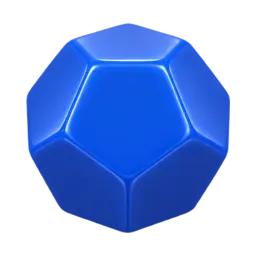
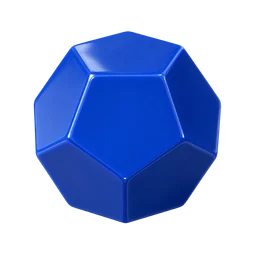
feat: generate modern pawn and dice sprites

diff --git a/.superpowers/sdd/2026-09-27-game-art-and-gameplay-refresh-plan/task-2d-modern-pawns-dice-report.md b/.superpowers/sdd/2026-09-27-game-art-and-gameplay-refresh-plan/task-2d-modern-pawns-dice-report.md
@@ -1,0 +1,87 @@
+# Task 2D: Modern Pawns and Dice
+
+Date: 2026-09-27
+Branch: `master`
+Runtime: Node 22.23.3
+
+## Result
+
+Generated, inspected, normalized and committed ten Modern assets: Pop & Race `pawn-1` through `pawn-4`, and dice `d4`, `d6`, `d8`, `d10`, `d12`, `d20`. All ten source files are copied byte-for-byte from accepted built-in outputs. No behavior code or asset validator changes were made.
+
+## Generation provenance and exact prompts
+
+Each accepted asset came from a separate built-in image-generation call using the verbatim frozen prompt below. Timestamps in the manifest are UTC conversions of the generated PNG file times; `reviewedAt` records the actual source inspection time. The stored source PNGs are under `docs/design/source-art/modern/`.
+
+1. `trouble/pawn-1` — output `/mnt/c/Users/miguel/.codex/generated_images/01a0e4aa-81a5-79e0-baa6-1dfe293240d9/exec-ccdaabb5-d941-423c-b3f2-9144bec89cb3.png`; accepted retry 1. Initial candidate `.../exec-8edbc687-74e8-40b6-8638-9838e3b38df5.png` was rejected because the image was not surfaced for native inspection; no review is claimed for it. Retry suffix: none; the retry repeated the exact manifest prompt.
+
+   > Use case: product-mockup. Asset type: individual production game sprite. Theme: Modern molded plastic, polished resin, clear glass; clean tabletop product photography with controlled studio highlights. Role: pawn-1; owner: seat2; color: #1A56DB. Primary request: One classic rounded tabletop pawn: spherical head, tapering body, broad circular foot; upright and fully visible. Molded plastic with consistent proportions and camera elevation across all four seats. Camera: front three-quarter; fixed upper-left soft studio lighting. Composition: one centered object on a square canvas with genuine alpha transparent background including openings; 72–80% target fill along the longest visible bound, at least 10% safe alpha padding on every side, complete silhouette. Constraints: no text; no watermark; no ground plane; no decorative border; no baked interface; no external shadow or detached specks.
+
+2. `trouble/pawn-2` — output `/mnt/c/Users/miguel/.codex/generated_images/01a0e4aa-81a5-79e0-baa6-1dfe293240d9/exec-99a8d8ee-395e-4643-9a84-9803b5c4e2ea.png`.
+
+   > Use case: product-mockup. Asset type: individual production game sprite. Theme: Modern molded plastic, polished resin, clear glass; clean tabletop product photography with controlled studio highlights. Role: pawn-2; owner: seat1; color: #DC2626. Primary request: One classic rounded tabletop pawn: spherical head, tapering body, broad circular foot; upright and fully visible. Molded plastic with consistent proportions and camera elevation across all four seats. Camera: front three-quarter; fixed upper-left soft studio lighting. Composition: one centered object on a square canvas with genuine alpha transparent background including openings; 72–80% target fill along the longest visible bound, at least 10% safe alpha padding on every side, complete silhouette. Constraints: no text; no watermark; no ground plane; no decorative border; no baked interface; no external shadow or detached specks.
+
+3. `trouble/pawn-3` — output `/mnt/c/Users/miguel/.codex/generated_images/01a0e4aa-81a5-79e0-baa6-1dfe293240d9/exec-54c23125-9fc4-4a00-bfb9-d9902187dad5.png`.
+
+   > Use case: product-mockup. Asset type: individual production game sprite. Theme: Modern molded plastic, polished resin, clear glass; clean tabletop product photography with controlled studio highlights. Role: pawn-3; owner: seat3; color: #059669. Primary request: One classic rounded tabletop pawn: spherical head, tapering body, broad circular foot; upright and fully visible. Molded plastic with consistent proportions and camera elevation across all four seats. Camera: front three-quarter; fixed upper-left soft studio lighting. Composition: one centered object on a square canvas with genuine alpha transparent background including openings; 72–80% target fill along the longest visible bound, at least 10% safe alpha padding on every side, complete silhouette. Constraints: no text; no watermark; no ground plane; no decorative border; no baked interface; no external shadow or detached specks.
+
+4. `trouble/pawn-4` — output `/mnt/c/Users/miguel/.codex/generated_images/01a0e4aa-81a5-79e0-baa6-1dfe293240d9/exec-2bd6b810-56a8-4293-b159-5ad210f82be3.png`.
+
+   > Use case: product-mockup. Asset type: individual production game sprite. Theme: Modern molded plastic, polished resin, clear glass; clean tabletop product photography with controlled studio highlights. Role: pawn-4; owner: seat4; color: #92400E. Primary request: One classic rounded tabletop pawn: spherical head, tapering body, broad circular foot; upright and fully visible. Molded plastic with consistent proportions and camera elevation across all four seats. Camera: front three-quarter; fixed upper-left soft studio lighting. Composition: one centered object on a square canvas with genuine alpha transparent background including openings; 72–80% target fill along the longest visible bound, at least 10% safe alpha padding on every side, complete silhouette. Constraints: no text; no watermark; no ground plane; no decorative border; no baked interface; no external shadow or detached specks.
+
+5. `dice/d4` — output `/mnt/c/Users/miguel/.codex/generated_images/01a0e4aa-81a5-79e0-baa6-1dfe293240d9/exec-48879a79-bf3b-4166-ba51-c7796a1bf754.png`.
+
+   > Use case: product-mockup. Asset type: individual production game sprite. Theme: Modern molded plastic, polished resin, clear glass; clean tabletop product photography with controlled studio highlights. Role: d4; owner: shared; color: #1A56DB. Primary request: One physically correct d4 die: tetrahedron with four triangular faces. Blank faces, no numbers, no letters, no symbols, no pips. Facet edges reveal the true geometry; front-facing facet remains unobstructed for code-rendered values. Camera: front three-quarter; fixed upper-left soft studio lighting. Composition: one centered object on a square canvas with genuine alpha transparent background including openings; 72–80% target fill along the longest visible bound, at least 10% safe alpha padding on every side, complete silhouette. Constraints: no text; no watermark; no ground plane; no decorative border; no baked interface; no external shadow or detached specks.
+
+6. `dice/d6` — output `/mnt/c/Users/miguel/.codex/generated_images/01a0e4aa-81a5-79e0-baa6-1dfe293240d9/exec-cb36921e-60e2-4697-9443-50769270a7c1.png`.
+
+   > Use case: product-mockup. Asset type: individual production game sprite. Theme: Modern molded plastic, polished resin, clear glass; clean tabletop product photography with controlled studio highlights. Role: d6; owner: shared; color: #1A56DB. Primary request: One physically correct d6 die: cube with six square faces. Blank faces, no numbers, no letters, no symbols, no pips. Facet edges reveal the true geometry; front-facing facet remains unobstructed for code-rendered values. Camera: front three-quarter; fixed upper-left soft studio lighting. Composition: one centered object on a square canvas with genuine alpha transparent background including openings; 72–80% target fill along the longest visible bound, at least 10% safe alpha padding on every side, complete silhouette. Constraints: no text; no watermark; no ground plane; no decorative border; no baked interface; no external shadow or detached specks.
+
+7. `dice/d8` — output `/mnt/c/Users/miguel/.codex/generated_images/01a0e4aa-81a5-79e0-baa6-1dfe293240d9/exec-7b776679-6069-4556-8bb8-04ec4fed0f57.png`.
+
+   > Use case: product-mockup. Asset type: individual production game sprite. Theme: Modern molded plastic, polished resin, clear glass; clean tabletop product photography with controlled studio highlights. Role: d8; owner: shared; color: #1A56DB. Primary request: One physically correct d8 die: octahedron with eight triangular faces. Blank faces, no numbers, no letters, no symbols, no pips. Facet edges reveal the true geometry; front-facing facet remains unobstructed for code-rendered values. Camera: front three-quarter; fixed upper-left soft studio lighting. Composition: one centered object on a square canvas with genuine alpha transparent background including openings; 72–80% target fill along the longest visible bound, at least 10% safe alpha padding on every side, complete silhouette. Constraints: no text; no watermark; no ground plane; no decorative border; no baked interface; no external shadow or detached specks.
+
+8. `dice/d10` — output `/mnt/c/Users/miguel/.codex/generated_images/01a0e4aa-81a5-79e0-baa6-1dfe293240d9/exec-313e0a76-e1b9-4ce2-8c58-cf9df762c7d2.png`.
+
+   > Use case: product-mockup. Asset type: individual production game sprite. Theme: Modern molded plastic, polished resin, clear glass; clean tabletop product photography with controlled studio highlights. Role: d10; owner: shared; color: #1A56DB. Primary request: One physically correct d10 die: pentagonal trapezohedron with ten kite-shaped faces. Blank faces, no numbers, no letters, no symbols, no pips. Facet edges reveal the true geometry; front-facing facet remains unobstructed for code-rendered values. Camera: front three-quarter; fixed upper-left soft studio lighting. Composition: one centered object on a square canvas with genuine alpha transparent background including openings; 72–80% target fill along the longest visible bound, at least 10% safe alpha padding on every side, complete silhouette. Constraints: no text; no watermark; no ground plane; no decorative border; no baked interface; no external shadow or detached specks.
+
+9. `dice/d12` — output `/mnt/c/Users/miguel/.codex/generated_images/01a0e4aa-81a5-79e0-baa6-1dfe293240d9/exec-1f98f048-39ef-4076-af9b-5218d67de846.png`.
+
+   > Use case: product-mockup. Asset type: individual production game sprite. Theme: Modern molded plastic, polished resin, clear glass; clean tabletop product photography with controlled studio highlights. Role: d12; owner: shared; color: #1A56DB. Primary request: One physically correct d12 die: dodecahedron with twelve pentagonal faces. Blank faces, no numbers, no letters, no symbols, no pips. Facet edges reveal the true geometry; front-facing facet remains unobstructed for code-rendered values. Camera: front three-quarter; fixed upper-left soft studio lighting. Composition: one centered object on a square canvas with genuine alpha transparent background including openings; 72–80% target fill along the longest visible bound, at least 10% safe alpha padding on every side, complete silhouette. Constraints: no text; no watermark; no ground plane; no decorative border; no baked interface; no external shadow or detached specks.
+
+10. `dice/d20` — output `/mnt/c/Users/miguel/.codex/generated_images/01a0e4aa-81a5-79e0-baa6-1dfe293240d9/exec-6d0b1d14-7065-4633-8102-02d603e58b36.png`.
+
+   > Use case: product-mockup. Asset type: individual production game sprite. Theme: Modern molded plastic, polished resin, clear glass; clean tabletop product photography with controlled studio highlights. Role: d20; owner: shared; color: #1A56DB. Primary request: One physically correct d20 die: icosahedron with twenty triangular faces. Blank faces, no numbers, no letters, no symbols, no pips. Facet edges reveal the true geometry; front-facing facet remains unobstructed for code-rendered values. Camera: front three-quarter; fixed upper-left soft studio lighting. Composition: one centered object on a square canvas with genuine alpha transparent background including openings; 72–80% target fill along the longest visible bound, at least 10% safe alpha padding on every side, complete silhouette. Constraints: no text; no watermark; no ground plane; no decorative border; no baked interface; no external shadow or detached specks.
+
+## Inspection and source metrics
+
+`view_image` could not start because bubblewrap is unavailable. Each accepted original was instead displayed at its native 1254×1254 resolution immediately after its own built-in generation; raw PNG measurements were computed from the untouched outputs under Node 22. The contact sheets were also inspected inline at their actual dimensions, without cropping or resizing.
+
+| Asset | Stored source | Detached faint alpha cleared in memory | Final WebP bytes |
+| --- | --- | ---: | ---: |
+| pawn-1 | `docs/design/source-art/modern/trouble/pawn-1.png` | 539 px | 5,298 |
+| pawn-2 | `docs/design/source-art/modern/trouble/pawn-2.png` | 131 px | 5,308 |
+| pawn-3 | `docs/design/source-art/modern/trouble/pawn-3.png` | 1,477 px | 5,068 |
+| pawn-4 | `docs/design/source-art/modern/trouble/pawn-4.png` | 731 px | 5,198 |
+| d4 | `docs/design/source-art/modern/dice/d4.png` | 1,978 px | 10,782 |
+| d6 | `docs/design/source-art/modern/dice/d6.png` | 2,147 px | 10,810 |
+| d8 | `docs/design/source-art/modern/dice/d8.png` | 908 px | 8,818 |
+| d10 | `docs/design/source-art/modern/dice/d10.png` | 333 px | 10,204 |
+| d12 | `docs/design/source-art/modern/dice/d12.png` | 4,699 px | 8,142 |
+| d20 | `docs/design/source-art/modern/dice/d20.png` | 562 px | 11,634 |
+
+All ten source files are genuine-alpha PNGs with one meaningful connected object. Original faint alpha residue touched some canvas edges; the existing preparer removed only detached sub-13/255 pixels in memory. All source silhouettes then passed no-edge-touch validation; no meaningful pixels were removed from stored PNGs. Every final has one meaningful component, transparent corners, no edge contact, 76.04% fill for pawns or 76.17% for dice, and at least 11.72% padding. The ten WebPs total 81,262 bytes; largest is 11,634 bytes.
+
+## Contact sheets and verification
+
+- Full-size light/dark, 5 columns × 2 rows, 256px cells: [light](../../../docs/design/qa/modern-pawns-dice-full-light.webp), [dark](../../../docs/design/qa/modern-pawns-dice-full-dark.webp).
+- Phone light/dark, 5 columns × 2 rows, 64px cells: [light](../../../docs/design/qa/modern-pawns-dice-phone-light.webp), [dark](../../../docs/design/qa/modern-pawns-dice-phone-dark.webp).
+- Contact-sheet order: pawn-1 through pawn-4, then d4, d6, d8, d10, d12, d20.
+- `npm run test:assets`: 43/43 passed.
+- `npm run test:unit`: 88/88 passed.
+- `npm run typecheck`: passed.
+- `npm run build`: passed; web export and PWA build completed.
+- All verification ran under Node 22.23.3. Exact-asset normalization completed for all ten paths.
+
+## Scope, self-review, and concerns
+
+Only the ten target manifest records were completed. Stage remains `generation-batches`; custom records now have 29 completed and 79 pending, and all nine coin-quarter authority records remain pending. No other manifest records or behavior code changed. The task does not claim a fresh browser gameplay audit. Self-review confirmed source PNGs were copied without modification, final outputs match catalog paths, every die face remains blank, and source/final bounds satisfy the unchanged alpha and byte rules. The first pawn-1 output remains only in the generator’s external output directory and is not used; this report does not claim it was inspected.

diff --git a/docs/design/game-art-fidelity-ledger.md b/docs/design/game-art-fidelity-ledger.md
@@ -127,3 +127,17 @@ Accepted twelve distinct built-in generations, one per frozen manifest prompt, w
 Contact-sheet order is marble-1 through marble-6, then seed-1 through seed-6. These sheets are QA artifacts only. The existing normalizer clears detached sub-5% alpha residue in memory (97–1,242 pixels per source); original PNG metrics, including faint residue at some source edges, are retained separately in the task report. Meaningful source pixels never reach a canvas edge. Source preservation and byte-identical repeat normalization passed for all twelve.
 
 Stage remains `generation-batches`: 19 completed custom records, 89 `generationPending` custom records, and nine unchanged `authorityReferencePending` quarters. Only these twelve records changed in the manifest. Asset tests passed 43/43, application unit tests 88/88, and TypeScript passed under Node 22.23.3. No behavior or validator changes were needed. This inspection covers source/final art and does not claim a fresh browser gameplay audit.
+
+## Task 2D Modern pawns and dice — 2026-09-27
+
+Accepted ten individually generated Modern sprites after native-resolution source inspection, strict alpha/source preparation, exact-asset normalization, and full-size plus phone-size final inspection. Pawn-1 required one retry: the first built-in output was not presented for native inspection and was rejected without claiming review; the second call repeated the exact manifest prompt and supplied the accepted source. No other retries. Source prep removed only detached faint-alpha residue from untouched PNG copies; connected object pixels were retained.
+
+| Inspection | Evidence and result |
+| --- | --- |
+| Pop & Race pawns | Four complete, upright spherical-head/tapered-body/broad-foot pawns read consistently at phone size. Blue seat2, red seat1, green seat3 and brown seat4 remain unmistakable. The seat4 pawn has a subtle neck band; its core silhouette, camera and scale match the family. |
+| Dice | Blank blue resin/glass d4 tetrahedron, d6 cube, d8 octahedron, d10 pentagonal trapezohedron, d12 dodecahedron and d20 icosahedron are distinguishable. No numeral, pip, letter, symbol, inscription, extra die or ground plane appears. |
+| Production-size light/dark | [Light](qa/modern-pawns-dice-full-light.webp) and [dark](qa/modern-pawns-dice-full-dark.webp) sheets show all ten final sprites in manifest order at 192px or 256px per cell. Transparent cutouts remain clean on both backgrounds. |
+| Phone-size readability | [Light](qa/modern-pawns-dice-phone-light.webp) and [dark](qa/modern-pawns-dice-phone-dark.webp) 64px-cell sheets retain four pawn colors and recognizable geometry for every die. |
+| Alpha, geometry and budget | Every source is a 1254×1254 RGBA PNG with one meaningful object. The existing preparation step removed 131–4,699 detached faint-alpha pixels in memory per source; no meaningful component touches an edge. All finals have genuine alpha, transparent corners, one meaningful component, no edge contact, at least 11.72% padding, and 76.04% pawn / 76.17% die longest-bound fill. Batch: 81,262 bytes; largest final: 11,634 bytes. |
+
+Final source PNGs are copied unchanged from built-in outputs into the ten manifest source paths. Only the ten target records changed in the manifest; their generated/reviewed timestamps use actual file generation times and the completed visual/metrics review. Stage remains `generation-batches`: 29 completed custom records, 79 `generationPending` custom records, and nine unchanged authority-pending coin slots. Asset tests passed 43/43, unit tests 88/88, TypeScript passed under Node 22.23.3, and the web/PWA build completed. No behavior code or validators changed. This batch does not claim a fresh gameplay audit.
